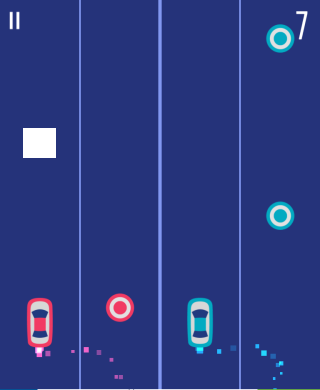
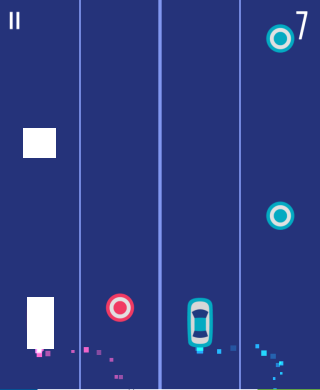
added car and sliding animation

Changed region(s): [[0.0625, 0.7385, 0.1875, 0.8923]]

diff --git a/2cars/GameScene.m b/2cars/GameScene.m
@@ -7,7 +7,7 @@
 //
 
 #import "GameScene.h"
-SKSpriteNode *red_square;
+SKSpriteNode *red_square,*red_car;
 CGRect screenRect;
 CGFloat screenWidth;
 CGFloat screenHeight;
@@ -27,6 +27,7 @@ CGFloat screenHeight;
     screenWidth = screenRect.size.width;
     screenHeight = screenRect.size.height;
     [self generate_red_Square];
+    [self set_Red_car];
 }
 
 -(void)touchesBegan:(NSSet *)touches withEvent:(UIEvent *)event {
@@ -47,6 +48,17 @@ CGFloat screenHeight;
 //        
 //        [self addChild:sprite];
 //    }
+    
+    SKAction *rotation = [SKAction rotateByAngle: -M_PI/4.0 duration:0.5];
+    //and just run the action
+    [red_car runAction: rotation];
+}
+
+-(void)set_Red_car
+{
+    red_car = [SKSpriteNode spriteNodeWithImageNamed:@"car"];
+    red_car.position = CGPointMake(CGRectGetMidX(self.frame) - 170, 30);
+    [self addChild:red_car];
 }
 
 -(void)generate_red_Square
@@ -58,6 +70,19 @@ CGFloat screenHeight;
     red_square.name     = @"square";
     
     [self addChild:red_square];
+    
+//    double distance = sqrt(pow((CGRectGetMidX(self.frame) - 170 - red_square.position.x), 2.0) + pow((20 - red_square.position.y), 2.0));
+//    
+//    //calculate your new duration based on the distance
+//    float moveDuration = 0.009*distance;
+//    
+//    //move the node
+//    SKAction *move = [SKAction moveTo:CGPointMake(CGRectGetMidX(self.frame) - 170,0) duration: moveDuration];
+//    [red_square runAction: move];
+    
+    //setting time for the image to slide
+    [red_square runAction:[SKAction moveTo:CGPointMake(CGRectGetMidX(self.frame) - 170,0) duration:3.0]];
+    
 }
 
 -(void)update:(CFTimeInterval)currentTime {
